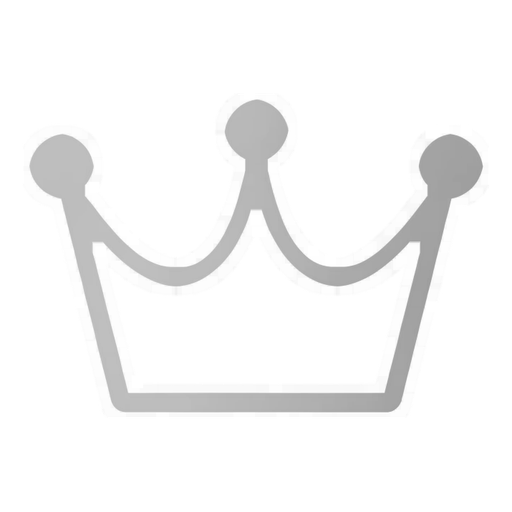
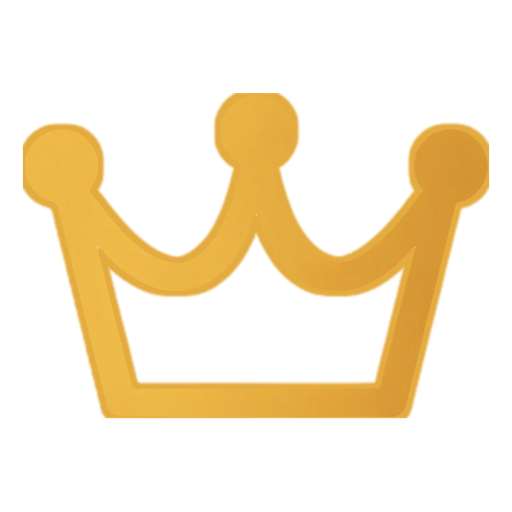
Crown keeps the original colors of the artwork (no tint, no lighter edge)
Claude-Session: https://claude.ai/code/session_01CtCn2tQB2fQU7ynQPz7MgW

Changed region(s): [[0.0312, 0.1562, 0.9688, 0.8438]]

diff --git a/src/game/client/components/king/king.h b/src/game/client/components/king/king.h
@@ -121,7 +121,7 @@ public:
 	bool IsKingPlayer(int ClientId) const;
 	bool ShowBadge(int ClientId) const { return g_Config.m_KgBadgeShow && IsKingPlayer(ClientId); }
 	IGraphics::CTextureHandle CrownTexture() const { return m_CrownTexture; }
-	static ColorRGBA CrownColor() { return ColorRGBA(0.95f, 0.75f, 0.30f, 1.0f); }
+	static ColorRGBA CrownColor() { return ColorRGBA(1.0f, 1.0f, 1.0f, 1.0f); } // the texture has its own colors
 	// draws the crown in a Size x Size square whose left edge is X, vertically centered on CenterY
 	void RenderCrown(float X, float CenterY, float Size, float Alpha) const;
 
